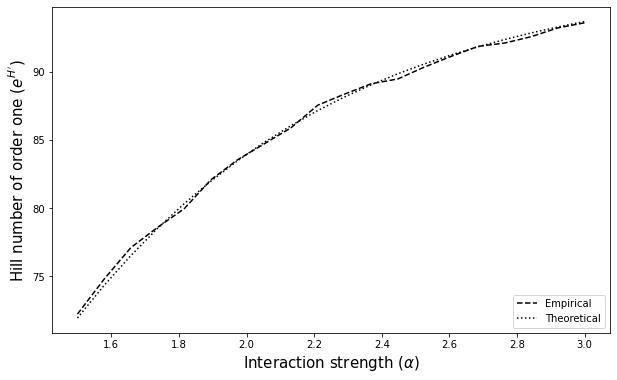
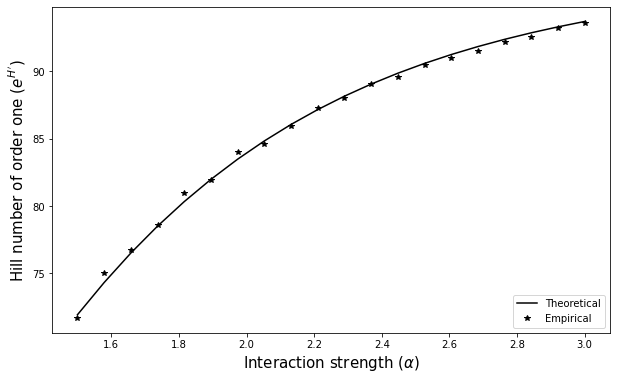
Update figure10.py

diff --git a/Code/figure10.py b/Code/figure10.py
@@ -3,7 +3,7 @@
 @author: Maxime Clenet
 
 Theoretical approximation versus empirical simulations of the Hill
-number of order 1. 
+number of order 1.
 """
 
 
@@ -14,71 +14,87 @@ import matplotlib.pyplot as plt
 from functions import theoretical_hill_lcp, final_function
 
 # %%
+
+# Comparison of the estimator as a function of the strength
+# of the interactions (alpha).
+
 # Choice of the initial condition:
-n = 100  # Dimension
-MC_PREC = 100  # Number of MC experiments
-MC_ALPHA = 20
+N_SIZE = 100  # Dimension
+MC_PREC = 50  # Number of MC experiments
+MC_ALPHA = 20  # Number of step of the x-axis
+MU = 0  # Choice of the parameter MU
 
-
+# initialisation of the parameter mu
 init_alpha = np.linspace(1.5, 3, MC_ALPHA)
+# The bounds can be changed, however the result of
+# the fixed point can be affected
+# (see function.py to change the initial conditions if necessary).
 
 emp_hill = np.zeros(MC_ALPHA)
 theo_hill = np.zeros(MC_ALPHA)
 
-compt = 0
-for alpha in init_alpha:
-    print(alpha)
-    S_emp = 0
+for compt, alpha in enumerate(init_alpha):
+    # Empirical part:
+    s_emp = 0
     for j in range(MC_PREC):
-        B = np.random.randn(n, n)/(np.sqrt(n)*alpha)
-        S_emp += theoretical_hill_lcp(B)
-    emp_hill[compt] = S_emp/MC_PREC
-    x = final_function(alpha=alpha, mu=0)
+        B = np.random.randn(N_SIZE, N_SIZE)/(np.sqrt(N_SIZE)*alpha)+MU/N_SIZE
+        s_emp += theoretical_hill_lcp(B)
+    emp_hill[compt] = s_emp/MC_PREC
+    # Theoretical part:
+    x = final_function(alpha=alpha, mu=MU)
+    theo_hill[compt] = N_SIZE*x[0]/2*(3-(x[2]/x[1])**2)
 
-    theo_hill[compt] = n*x[0]/2*(3-(x[2]/x[1])**2)
-    compt += 1
-
+# Part reserved for the display:
 
 fig = plt.figure(1, figsize=(10, 6))
 plt.xlabel(r"Interaction strength ($\alpha$)", fontsize=15)
 plt.ylabel(r"Hill number of order one ($e^{H'}$)", fontsize=15)
-plt.plot(init_alpha, emp_hill, color='k', linestyle='--', label=r"Empirical")
-plt.plot(init_alpha, theo_hill, color='k', linestyle=':', label=r"Theoretical")
+plt.plot(init_alpha, theo_hill, color='k', label=r"Theoretical")
+plt.plot(init_alpha, emp_hill, 'k*', label=r"Empirical")
 plt.legend(loc='lower right')
 plt.show()
 
 
 # %%
 
+# Comparison of the estimator as a function of the drift
+# of the interactions (mu).
+
+
 # Choice of the initial condition:
-n = 100  # Dimension
+N_SIZE = 100  # Dimension
 MC_PREC = 100  # Number of MC experiments
-MC_MU = 20
+MC_MU = 20  # Number of step of the x-axis
+ALPHA = 2  # Choice of parameter alpha
 
+init_mu = np.linspace(-0.4, 0.4, MC_MU)  # initialisation of the parameter mu
+# The bounds can be changed, however the result of
+# the fixed point can be affected
+# (see function.py to change the initial conditions if necessary).
 
-init_mu = np.linspace(-0.4, 0.4, MC_MU)
 
 emp_hill_mu = np.zeros(MC_MU)
 theo_hill_mu = np.zeros(MC_MU)
-alpha = 2
-compt = 0
-for mu in init_mu:
-    S_emp = 0
+
+for compt, mu in enumerate(init_mu):
+    # Empirical part:
+    s_emp = 0
     for j in range(MC_PREC):
-        B = np.random.randn(n, n)/(np.sqrt(n)*alpha)+mu/n
-        S_emp += theoretical_hill_lcp(B)
-    emp_hill[compt] = S_emp/MC_PREC
-    x = final_function(alpha=2, mu=mu)
+        B = np.random.randn(N_SIZE, N_SIZE)/(np.sqrt(N_SIZE)*ALPHA)+mu/N_SIZE
+        s_emp += theoretical_hill_lcp(B)
+    emp_hill[compt] = s_emp/MC_PREC
+    # Theoretical part:
+    x = final_function(alpha=ALPHA, mu=mu)
+    theo_hill[compt] = N_SIZE*x[0]/2*(3-(x[2]/x[1])**2)
 
-    theo_hill[compt] = n*x[0]/2*(3-(x[2]/x[1])**2)
-    compt += 1
 
+# Part reserved for the display:
 
 fig = plt.figure(1, figsize=(10, 6))
 plt.xlabel(r"Interaction drift ($\mu$)", fontsize=15)
 plt.ylabel(r"Hill number of order one ($e^{H'}$)", fontsize=15)
-plt.plot(init_alpha, emp_hill, color='k', linestyle='--', label=r"Empirical")
-plt.plot(init_alpha, theo_hill, color='k', linestyle=':', label=r"Theoretical")
+plt.plot(init_alpha, theo_hill, 'k', label=r"Theoretical")
+plt.plot(init_alpha, emp_hill, 'k*',  label=r"Empirical")
 plt.legend(loc='upper right')
 plt.ylim(80, 95)
 plt.show()
